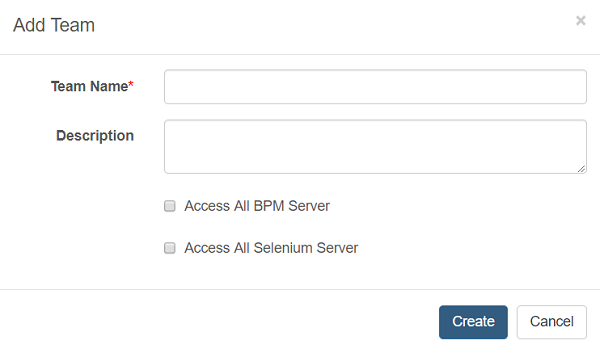
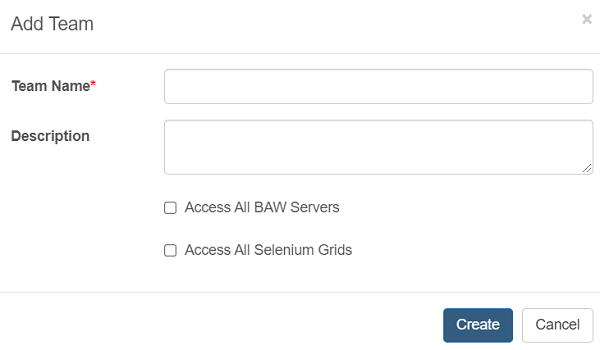
update doc

diff --git a/_posts/2018-07-04-administration-team-configuration.md b/_posts/2018-07-04-administration-team-configuration.md
@@ -2,7 +2,7 @@
 title: "Team configuration"
 category: administration
 date: 2018-10-21 15:17:55
-last_modified_at: 2019-07-29 16:21:00
+last_modified_at: 2021-08-23 16:21:00
 order: 4
 ---
 
@@ -21,12 +21,12 @@ order: 4
      |------------------------|-------------|                                          
      | Team    Name           | the name of the created team|  
      | Description            | more description or information of the created team|
-     | Access All BPM Server  | If check, then the users in this team can access all BAW servers without assignment.|
+     | Access All BAW Server  | If check, then the users in this team can access all BAW servers without assignment.|
      | Access All Selenium Server  | If check, then the users in this team can access all selenium serers without assignment.|
 
      **Notes:**
 
-     If checkboxes *Access All BPM Server* and *Access All Selenium Server* are checked, then the team is an administration team. Its users can access all BAW servers, process apps and selenium grids, which does not have to assign. *Process App Assignment* and *Selenium Grid Assignment* buttons are not available.
+     If checkboxes *Access All BAW Server* and *Access All Selenium Server* are checked, then the team is an administration team. Its users can access all BAW servers, process apps and selenium grids, which does not have to assign. *Process App Assignment* and *Selenium Grid Assignment* buttons are not available.
 
      ![][administration_super_team]
 

diff --git a/_posts/2018-03-03-test-case-data-binding.md b/_posts/2018-03-03-test-case-data-binding.md
@@ -2,7 +2,7 @@
 title: "Test Case data binding"
 category: test
 date: 2018-09-29 15:17:55
-last_modified_at: 2019-07-26 16:26:00
+last_modified_at: 2021-08-23 16:26:00
 order: 30
 ---
 
@@ -98,7 +98,7 @@ For example:
 
 2. If you want to run the test case with a different BAW server. The only you need to do is upload another csv file suffixed with "_\<YOUR BAW SERVER NAME\>.csv. It is very useful if you want to run the project with differents Workflow servers in a pipeline. The IDA will select the corresponding csv file with the Workflow server.
 
-3. You could find \<YOUR BAW SERVER NAME\> from "Administration -> BPM Configuration"
+3. You could find \<YOUR BAW SERVER NAME\> from "Administration -> BAW Configuration"
 
    ![][bpm_server_name]
 

diff --git a/_posts/2018-02-01-tutorial-create-a-test-project-and-generate-test-cases.md b/_posts/2018-02-01-tutorial-create-a-test-project-and-generate-test-cases.md
@@ -2,7 +2,7 @@
 title: "Task 1: Create a test project and generate test cases"
 category: tutorial
 date: 2018-09-23 15:17:55
-last_modified_at: 2019-07-25 21:40:00
+last_modified_at: 2021-08-23 21:40:00
 order: 1
 ---
 
@@ -16,7 +16,7 @@ Before you start the tutorial, you need to setup below configurations with the a
 [Users management][1]  
 You need to setup user account for the IDA login credentials.
 
-[BPM configuration][2]   
+[BAW configuration][2]   
 You need to setup BAW server and make the Workflow account be ready.
 
 [Selenium hub configuration][3]   

diff --git a/_posts/2018-07-02-administration-bpm-configuration.md b/_posts/2018-07-02-administration-bpm-configuration.md
@@ -2,7 +2,7 @@
 title: "BAW configuration"
 category: administration
 date: 2018-10-19 15:17:55
-last_modified_at: 2019-07-29 16:18:00
+last_modified_at: 2021-08-23 16:18:00
 order: 2
 ---
 

diff --git a/_posts/2018-03-12-test-case-dynamic-assignee.md b/_posts/2018-03-12-test-case-dynamic-assignee.md
@@ -2,7 +2,7 @@
 title: "Dynamic User Assignment"
 category: test
 date: 2018-10-06 15:17:55
-last_modified_at: 2019-10-25 15:24:00
+last_modified_at: 2021-08-23 15:24:00
 order: 90
 ---
 

diff --git a/_posts/2018-08-02-references-test-command.md b/_posts/2018-08-02-references-test-command.md
@@ -2,7 +2,7 @@
 title: "Test Commands"
 category: references
 date: 2018-10-27 15:17:55
-last_modified_at: 2021-08-22 10:42:00
+last_modified_at: 2021-08-23 10:42:00
 order: 2
 ---
 
